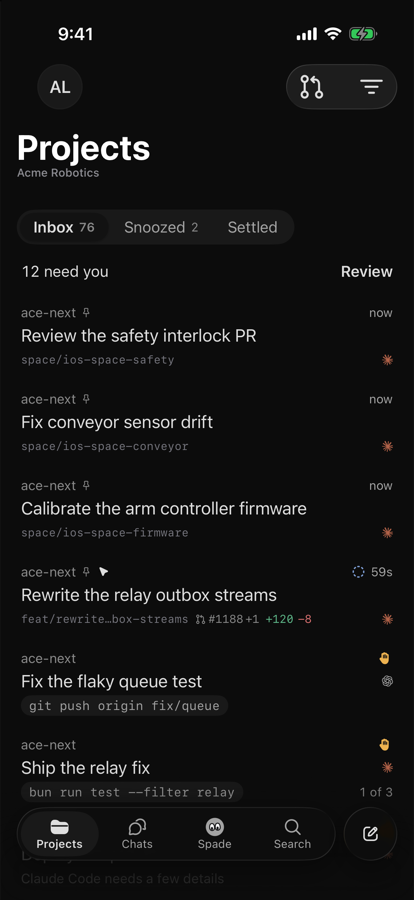
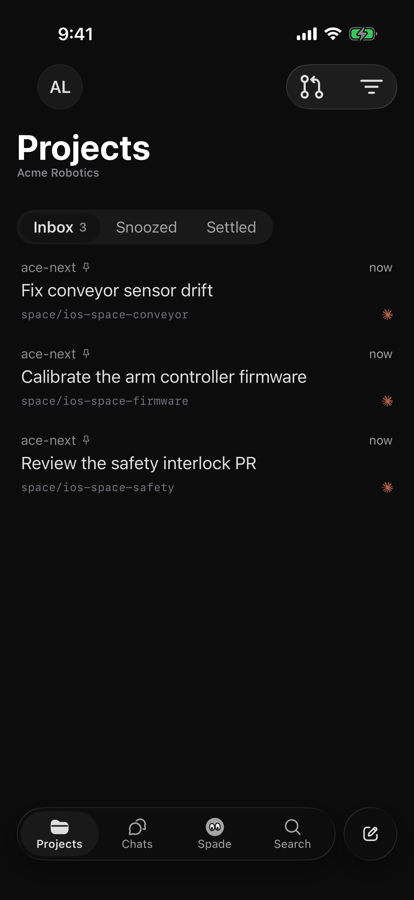
Spaces fixture: Acme's host holds only Acme's threads; phone wording
The Acme fixture seeded the same base threads as Personal's, so the two lists
looked shared although each showed one machine's own. The Acme host now
deletes every generic seeded thread (FakeDaemon.deleteThread, a scripted
delete whatever the thread is doing). UI tests assert no Personal thread shows
in Acme and no Acme thread in Personal.

spaceStartBlock gains a phone wording ("None of Acme Robotics' machines are
connected."); desktop's text is unchanged, and the shared table checks both.

diff --git a/apps/ios/UITests/SpacesUITests.swift b/apps/ios/UITests/SpacesUITests.swift
@@ -7,10 +7,41 @@ import XCTest
 @MainActor final class SpacesUITests: XCTestCase {
     override func setUp() { continueAfterFailure = false }
 
-    func testASharedBotIsMarkedAndItsRequestSaysWhoCanAnswer() throws {
+    /// Personal's threads (on 9852) and Acme Robotics' (on its host, 9863), as `space-scenario.ts` seeds them.
+    private let personal = ["Back up the photo library", "Draft the blog post on Swift 6", "Rewrite the relay outbox streams",
+                            "Fix the flaky queue test", "Ship the relay fix", "Deploy the preview"]
+    private let acme = ["Review the safety interlock PR", "Fix conveyor sensor drift", "Calibrate the arm controller firmware"]
+
+    /// The app on both fixture machines, signed in to the fixture account, showing `space`.
+    private func launch(space: String) -> XCUIApplication {
         let app = XCUIApplication()
-        app.launchArguments = ["--spike", "--spike-port", "9852", "--spike-machines", "9852,9863", "--spike-account"]
+        // The saved choice, as `SpacesModel` keys it, through the arguments' defaults domain.
+        app.launchArguments = ["--spike", "--spike-port", "9852", "--spike-machines", "9852,9863", "--spike-account",
+                               "-ace.space:http://127.0.0.1:9852:acct_spike", space]
         app.launchWithArguments()
+        return app
+    }
+
+    private func row(_ app: XCUIApplication, _ title: String) -> XCUIElement {
+        app.descendants(matching: .any).matching(NSPredicate(format: "label CONTAINS %@", title)).firstMatch
+    }
+
+    func testAcmesListShowsOnlyItsHostsThreadsAndNoPersonalOne() {
+        let app = launch(space: "org_acme")
+        for title in acme { XCTAssertTrue(row(app, title).waitForExistence(timeout: 30), title) }
+        for title in personal { XCTAssertFalse(row(app, title).exists, "\(title) is a Personal thread") }
+        attach(app, "2-acme-threads")
+    }
+
+    func testPersonalsListShowsNoAcmeThread() {
+        let app = launch(space: "personal")
+        for title in personal.prefix(2) { XCTAssertTrue(row(app, title).waitForExistence(timeout: 30), title) }
+        for title in acme { XCTAssertFalse(row(app, title).exists, "\(title) is an Acme thread") }
+        attach(app, "1-personal-threads")
+    }
+
+    func testASharedBotIsMarkedAndItsRequestSaysWhoCanAnswer() throws {
+        let app = launch(space: "org_acme")
         let tab = app.homeTab("spade")
         XCTAssertTrue(tab.waitForExistence(timeout: 30))
         tab.tap()

diff --git a/apps/ios/scripts/spike-daemon.ts b/apps/ios/scripts/spike-daemon.ts
@@ -1,6 +1,6 @@
 import { outsideScenario, seedOutside, type OutsideScenario } from "./outside-scenario.ts";
 import { seededSpade, seedSpade, spadeScenario, type SpadeScenario } from "./spade-scenario.ts";
-import { seedSpace } from "./space-scenario.ts";
+import { keepOnlySpaceThreads, recordSeeded, seedSpace } from "./space-scenario.ts";
 import { FakeDaemon, facts, seedForgeBrowse, seedPrWork } from "@ace/fake-daemon";
 import type { Fact } from "@ace/core";
 import type { ServerWebSocket } from "bun";
@@ -104,6 +104,8 @@ const details = (branch: string) => ({
   branch,
   machine: { host: hostId, name: machineName },
 });
+// Every thread the scenarios below seed, so an org host can drop them (`ACE_IOS_SPIKE_SPACE`).
+const seeded = recordSeeded(daemon);
 // Seeded first, so they are the list's oldest finished threads and never push the others down.
 seedTransitions(daemon, details);
 daemon.createThread({
@@ -407,6 +409,11 @@ const lostReceipt = new LostReceipt();
 const spikeAccount = new SpikeAccount(() => Date.now());
 // The app's `--perf-probe` numbers, for the performance UI tests.
 const perfProbe = new SpikePerfProbe();
+// An org host holds only the organization's work: the person's own threads, seeded above for
+// every fixture, are deleted once everything is seeded, so no thread is on a machine of both
+// spaces.
+if (space === "acme") keepOnlySpaceThreads(daemon, seeded());
+
 const server = Bun.serve<SpikeSocketData>({
   hostname: "127.0.0.1",
   port,

diff --git a/packages/client/src/ace-spaces.ts b/packages/client/src/ace-spaces.ts
@@ -94,12 +94,14 @@ export const possessive = (name: string): string => (name.endsWith("s") ? `${nam
 /**
  * Why a new thread can't start in the window's space, in one sentence, or undefined when it can
  * (ADR 0206 §2.4): a thread in an organization's space starts only on one of its machines, never
- * on this one in its place. `reachable` counts the space's machines this window lists.
+ * on this one in its place. `reachable` counts the space's machines this window lists. A phone
+ * has no windows: `phone` words it for one.
  */
 export function spaceStartBlock(
   space: ShownSpace | undefined,
   hostsOf: ReadonlyMap<string, ReadonlySet<string>>,
   reachable: number,
+  client: "window" | "phone" = "window",
 ): string | undefined {
   if (space === undefined) return "Loading this organization's machines…";
   const org = space.org;
@@ -108,7 +110,9 @@ export function spaceStartBlock(
   if (hosts === undefined) return `Loading ${possessive(org.name)} machines…`;
   if (hosts.size === 0) return `${org.name} has no machines yet.`;
   if (reachable === 0)
-    return `None of ${possessive(org.name)} machines are connected to this window.`;
+    return client === "phone"
+      ? `None of ${possessive(org.name)} machines are connected.`
+      : `None of ${possessive(org.name)} machines are connected to this window.`;
   return undefined;
 }
 

diff --git a/apps/ios/Tests/SpacesTests.swift b/apps/ios/Tests/SpacesTests.swift
@@ -16,7 +16,7 @@ struct SpacesTests {
         let noticeOrg = Spaces.org(of: entry.noticeHost, spaces: entry.spaces ?? [], hostsOf: hostsOf)
         #expect(shown?.id == entry.expect.shown)
         #expect(inSpace == entry.expect.inSpace)
-        #expect(Spaces.startBlock(shown, hostsOf: hostsOf, reachable: inSpace.count) == entry.expect.startBlock)
+        #expect(Spaces.startBlock(shown, hostsOf: hostsOf, reachable: inSpace.count) == entry.expect.phoneStartBlock)
         #expect(Spaces.manageLine(shown) == entry.expect.manage)
         #expect(Spaces.noticeLabel(org: noticeOrg, spaces: entry.spaces) == entry.expect.noticeLabel)
     }
@@ -48,6 +48,8 @@ struct SpaceCase: Decodable, Sendable, CustomTestStringConvertible {
         let shown: String?
         let inSpace: [Int]
         let startBlock: String?
+        /// The iPhone's wording: a phone has no windows.
+        let phoneStartBlock: String?
         let manage: String?
         let noticeLabel: String?
     }

diff --git a/apps/ios/scripts/space-scenario.ts b/apps/ios/scripts/space-scenario.ts
@@ -72,3 +72,24 @@ export function seedSpace(
     approvers: ["acct_spike", "acct_dana"],
   });
 }
+
+/** Records each thread `daemon` creates from now on; the ids so far on each call. */
+export function recordSeeded(daemon: FakeDaemon): () => string[] {
+  const ids: string[] = [];
+  const create = daemon.createThread.bind(daemon);
+  daemon.createThread = (init, agoMs) => {
+    ids.push(init.id);
+    create(init, agoMs);
+  };
+  return () => [...ids];
+}
+
+/** The space threads `seedSpace` makes. */
+const spaceThreads: ReadonlySet<string> = new Set(
+  Object.values(titles).flatMap((rows) => rows.map(([id]) => id)),
+);
+
+/** Deletes every seeded thread but the space's own; the fixture's timers skip deleted ones. */
+export function keepOnlySpaceThreads(daemon: FakeDaemon, seeded: readonly string[]): void {
+  for (const id of seeded) if (!spaceThreads.has(id)) daemon.deleteThread(id);
+}

diff --git a/packages/fake-daemon/src/daemon.ts b/packages/fake-daemon/src/daemon.ts
@@ -1003,6 +1003,18 @@ export class FakeDaemon implements Host {
     const now = this.at(agoMs);
     this.append(this.thread(id), [{ type: "thread.updated", ...changes }], now);
   }
+  /**
+   * Scripted: the thread is deleted whatever it is doing, as the delete command records it, for a
+   * fixture that drops work it seeded (a machine that holds only an organization's threads).
+   */
+  deleteThread(id: string, agoMs = 0): void {
+    const at = this.at(agoMs);
+    this.append(
+      this.thread(id),
+      [{ type: "thread.client.updated", changes: { deletedAt: at, autoSettleAt: null } }],
+      at,
+    );
+  }
   /** Push to every signed-in connection. */
   private broadcast(message: ServerMessage): void {
     for (const connection of this.connections)

diff --git a/packages/client/src/ace-spaces.test.ts b/packages/client/src/ace-spaces.test.ts
@@ -55,6 +55,8 @@ interface SpaceCase {
     shown: string | null;
     inSpace: number[];
     startBlock: string | null;
+    /** The same sentence as the iPhone words it: a phone has no windows. */
+    phoneStartBlock: string | null;
     manage: string | null;
     noticeLabel: string | null;
   };
@@ -78,6 +80,7 @@ test.each(table.map((entry) => [entry.case, entry] as const))("%s", (_name, entr
     shown: shown?.id ?? null,
     inSpace,
     startBlock: spaceStartBlock(shown, hostsOf, inSpace.length) ?? null,
+    phoneStartBlock: spaceStartBlock(shown, hostsOf, inSpace.length, "phone") ?? null,
     manage: spaceManageLine(shown) ?? null,
     noticeLabel: noticeSpaceLabel(fromOrg, spaces) ?? null,
   }).toEqual(entry.expect);

diff --git a/apps/ios/Sources/Models/Spaces.swift b/apps/ios/Sources/Models/Spaces.swift
@@ -70,7 +70,8 @@ enum Spaces {
         guard let org = space.org else { return nil }
         guard let hosts = hostsOf[org.id] else { return "Loading \(possessive(org.name)) machines…" }
         if hosts.isEmpty { return "\(org.name) has no machines yet." }
-        if reachable == 0 { return "None of \(possessive(org.name)) machines are connected to this window." }
+        // A phone has no windows (`spaceStartBlock`'s `phone` wording).
+        if reachable == 0 { return "None of \(possessive(org.name)) machines are connected." }
         return nil
     }
 

diff --git a/packages/fake-daemon/src/thread-lifecycle.test.ts b/packages/fake-daemon/src/thread-lifecycle.test.ts
@@ -102,3 +102,14 @@ test("an exited fake terminal permits deletion without an explicit terminal clos
   ).toBe(true);
   expect(daemon.terminals.list("thread")).toEqual([]);
 });
+
+test("a scripted delete drops a thread still waiting on the person, and later facts change nothing", () => {
+  const f = world();
+  expect(f.view()).toBeDefined();
+
+  f.daemon.deleteThread("thread");
+
+  expect(f.view()).toBeUndefined();
+  f.daemon.apply("thread", [turn("root")]);
+  expect(f.view()).toBeUndefined();
+});
